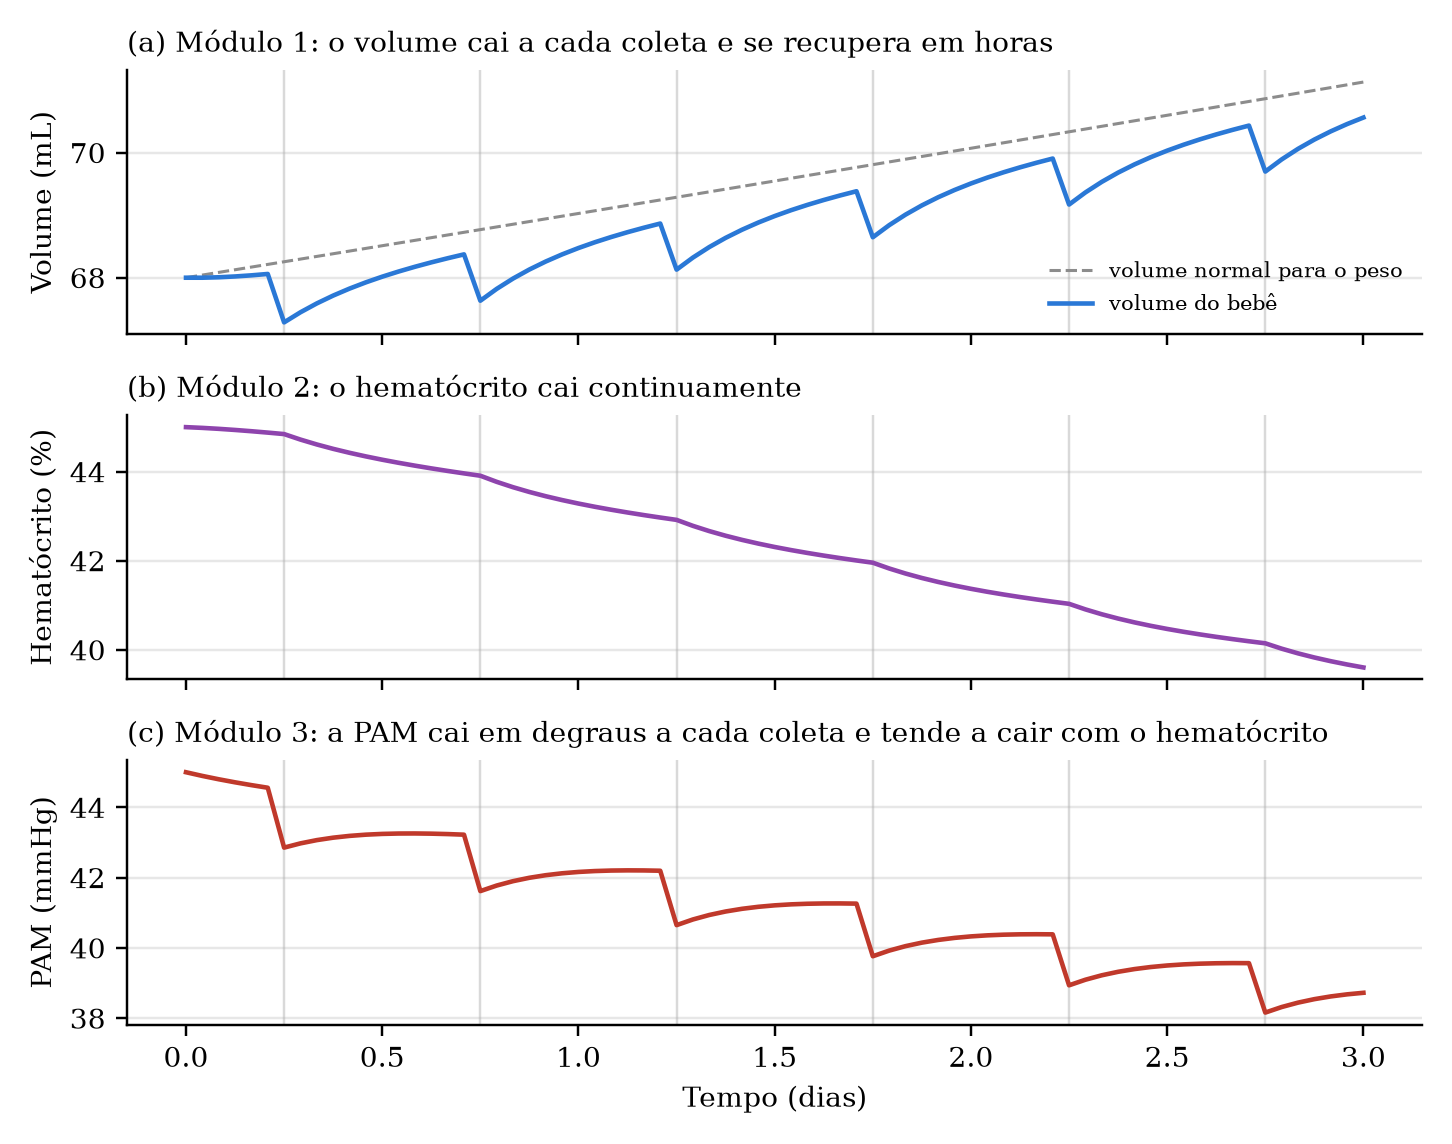
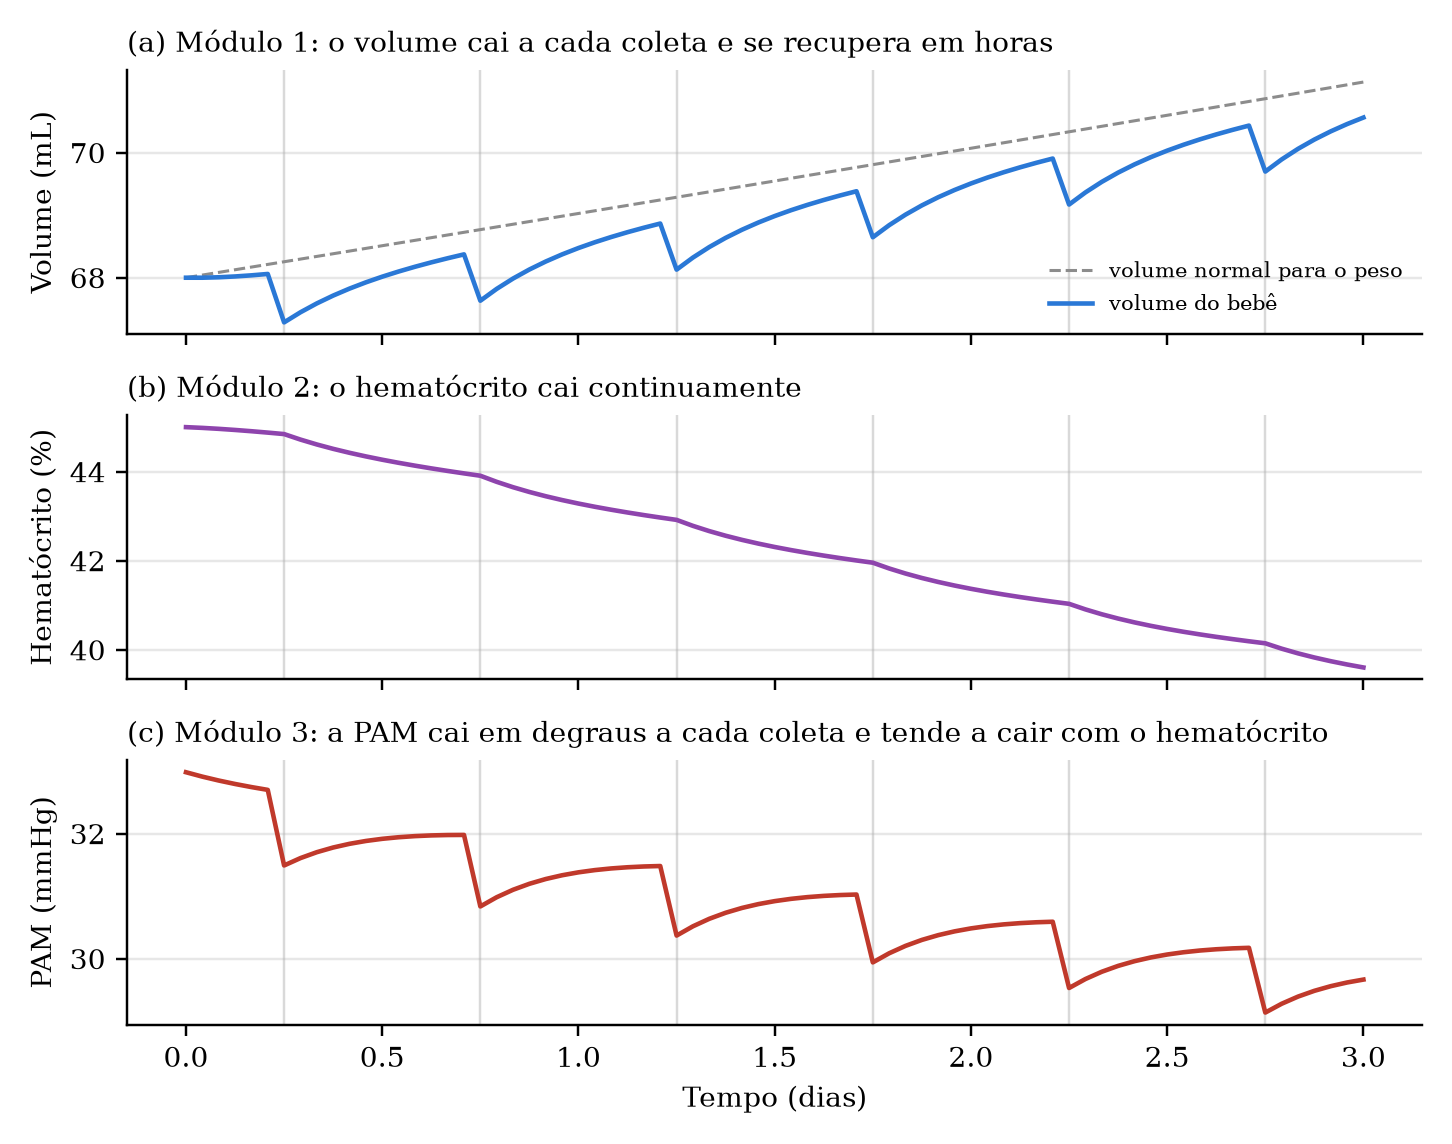
Ancora PAM, viscosidade e reposicao de volume na literatura
Tres parametros do relatorio parcial revistos contra as fontes citadas.

PAM basal 45 -> 33 mmHg. Vesoulis et al. (2016) mede ~33 mmHg ao nascer em
prematuros <28 semanas, por cateter umbilical, 11.9 milhoes de pontos. Os
45 mmHg eram saida dos parametros NEONATO, nao um valor da literatura --
o relatorio os apresentava como "compativeis com Vesoulis". Calibrado por
R, o unico dos tres parametros que se pode mexer sem estragar o resto:
mexer em SV derrubaria o debito cardiaco para 143 mL/kg/min, fora da faixa
neonatal de 200-230, e levaria a DO2 junto.

Viscosidade exponencial -> linear. A forma mu = mu_plasma.exp(K.Hct) so foi
confirmada em recem-nascidos ACIMA de Hct 42% (Pediatrics 1984, 93
amostras). O modelo percorre 45% -> 30%, ou seja, quase toda a simulacao
acontece fora da faixa validada. Na faixa de interesse a relacao e'
praticamente linear: r = 0.877 entre 29% e 63% num estudo em prematuros.
A forma linear preve queda 11% menor de viscosidade a Hct 0.30.
MODELO_VISCOSIDADE alterna entre as duas para comparacao.

TAU_V dividido em dois. Um unico tau de 6 h repunha volume apos a coleta E
drenava o excesso apos a transfusao -- mecanismos diferentes, sem razao
para serem iguais. Agora TAU_V = 6 h (refil transcapilar) e TAU_EXCRECAO =
24 h (excrecao renal, lenta no prematuro). O excesso pos-transfusao passa a
levar ~4 dias em vez de 1, e a sobrecarga de volume fica visivel, como e'
na clinica. TAU_EXCRECAO = TAU_V devolve o comportamento antigo.
[…]

diff --git a/simuladores/parametros.py b/simuladores/parametros.py
@@ -16,7 +16,12 @@ Unidades:
 # SV [mL], C [mL/mmHg], R [mmHg.s/mL], Pv [mmHg], HR [bpm]
 ADULTO = dict(nome="Adulto", HR=70.0, SV=70.0, C=1.20, R=1.0, Pv=5.0,
               cor="#2a78d6")
-NEONATO = dict(nome="Neonato", HR=140.0, SV=5.0, C=0.13, R=3.6, Pv=3.0,
+# R calibrado para PAM basal de ~33 mmHg, o valor normativo ao nascer em
+# prematuros <28 semanas (Vesoulis et al., 2016: 25.7 +- 1.5 sem, 865 +- 201 g,
+# 11.9 milhoes de pontos por cateter umbilical). R e' o unico dos tres que se
+# pode mexer sem estragar o resto: mexer em SV derrubaria o debito cardiaco
+# para 143 mL/kg/min, fora da faixa neonatal de 200-230, e com ele a DO2.
+NEONATO = dict(nome="Neonato", HR=140.0, SV=5.0, C=0.13, R=2.57, Pv=3.0,
                cor="#eb6834")
 PACIENTES = [ADULTO, NEONATO]
 
@@ -50,7 +55,19 @@ GANHO_PROD      = 2.00        # -       resposta lenta a (HCT0 - Hct)      TODO
 PROD_MAX        = 1.20        # -       teto da producao
 
 # ------------------------------------------------ volume
-TAU_V = 6.0                   # h       volume volta para V_ref; hemacias nao
+# Duas constantes, nao uma. O volume volta para V_ref por caminhos diferentes
+# conforme esteja abaixo ou acima dele, e nao ha razao para serem iguais:
+#
+#   TAU_V       V < V_ref, depois de uma coleta. Refil transcapilar, rapido.
+#   TAU_EXCRECAO  V > V_ref, depois de uma transfusao. Excrecao renal, lenta,
+#                 e mais lenta ainda no prematuro, de funcao renal imatura.
+#                 E' por isso que sobrecarga de volume e' risco real da
+#                 transfusao -- com um tau unico de 6 h, esse risco sumia em
+#                 24 h no modelo.
+#
+# Com TAU_EXCRECAO = TAU_V o comportamento volta a ser o de antes.      TODO
+TAU_V        = 6.0            # h       reposicao apos coleta
+TAU_EXCRECAO = 24.0           # h       excrecao do excesso apos transfusao
 
 # ------------------------------------------------ coletas
 VOL_COLETA        = 0.80      # mL      coleta de rotina                TODO
@@ -129,7 +146,20 @@ FU         = 0.70             # -       Vu = FU * V_ref (volume nao estressado)
 SV_REL_MAX = 1.20             # -       teto de SV/SV0
 
 # ------------------------------------------------ 5.2 viscosidade (Poiseuille)
-K_MU = 2.5                    # -       mu = mu_plasma * exp(K_MU * Hct)  TODO
+# A forma exponencial mu = mu_plasma.exp(K_MU.Hct) so foi confirmada em
+# recem-nascidos ACIMA de Hct 42% (Pediatrics, 1984, 93 amostras). O modelo
+# percorre 45% -> 30%, ou seja, quase toda a simulacao acontece abaixo dessa
+# fronteira. Na faixa de interesse a relacao e' praticamente linear: num
+# estudo em prematuros a viscosidade acompanhou o Hct com r = 0.877 entre
+# 29% e 63%.
+#
+# Usamos entao a forma linear  mu(Hct) = mu_plasma + (mu_ref - mu_plasma).Hct/HCT0,
+# parametrizada pela fracao do plasma na viscosidade do sangue de referencia:
+#   MU_PLASMA_REL = mu_plasma / mu_sangue(HCT0)
+# com plasma neonatal ~1.18 cP (adulto 1.36) e sangue a Hct 45% ~4.2 cP. TODO
+MODELO_VISCOSIDADE = "linear"  # "linear" (padrao) ou "exponencial"
+MU_PLASMA_REL = 0.28          # -       mu_plasma / mu_sangue(HCT0)      TODO
+K_MU = 2.5                    # -       so usado se MODELO_VISCOSIDADE = exponencial
 
 # ------------------------------------------------ 5.3 barorreflexo
 # g_r  -> vasoconstricao (reduz o raio)

diff --git a/simuladores/fisiologia.py b/simuladores/fisiologia.py
@@ -72,12 +72,27 @@ def sv_de_volume(V, V_ref, SV0):
 # ------------------------------------------------- 5.2 Hct -> viscosidade
 
 def viscosidade_relativa(Hct, Hct0=P.HCT0):
-    """mu(Hct)/mu(Hct0) com mu = mu_plasma.exp(K_MU.Hct).
+    """mu(Hct) / mu(Hct0), adimensional.
 
-    R e' linear em mu, mas NAO em Hct: a relacao viscosidade x hematocrito e'
-    exponencial no modelo e nao linear na realidade.
+    Duas formas, escolhidas por P.MODELO_VISCOSIDADE:
+
+      "linear"       mu = mu_plasma + (mu_ref - mu_plasma) . Hct/Hct0
+                     E' o padrao. Na faixa que o modelo percorre (45% -> 30%)
+                     a literatura neonatal mostra relacao praticamente linear
+                     com o hematocrito (r = 0.877 em prematuros, 29-63%).
+
+      "exponencial"  mu = mu_plasma . exp(K_MU . Hct)
+                     Forma classica, confirmada em recem-nascidos so ACIMA de
+                     Hct 42%. Mantida para comparacao e analise de
+                     sensibilidade.
+
+    R e' linear em mu; o que nao e' linear e' a dependencia de R no RAIO,
+    que entra como 1/r^4 em `hemodinamica`.
     """
-    return float(np.exp(P.K_MU * (Hct - Hct0)))
+    if P.MODELO_VISCOSIDADE == "exponencial":
+        return float(np.exp(P.K_MU * (Hct - Hct0)))
+    f = P.MU_PLASMA_REL
+    return float(f + (1.0 - f) * Hct / Hct0)
 
 
 # ------------------------------------------------- 5.3 barorreflexo

diff --git a/simuladores/02_balanco_volume_hemacias.py b/simuladores/02_balanco_volume_hemacias.py
@@ -134,7 +134,10 @@ def simular(agenda, dias=P.DIAS, dt=P.DT_H, transfundir=True,
             break
 
         # --- avanco de dt horas
-        rep = dt * (V_ref - V) / P.TAU_V          # reposicao: so plasma, dilui
+        # reposicao: so plasma, dilui. Abaixo de V_ref e' refil transcapilar
+        # (rapido); acima, excrecao renal do excesso de uma transfusao (lenta)
+        tau = P.TAU_V if V < V_ref else P.TAU_EXCRECAO
+        rep = dt * (V_ref - V) / tau
         V += rep
         acc["reposto"] += rep
         prod = producao_hemacias(M / V, peso0) * dt / 24.0

diff --git a/simuladores/proximos_passos/06_recomendacao.py b/simuladores/proximos_passos/06_recomendacao.py
@@ -49,7 +49,7 @@ def projetar(estado, horas, dt=P.DT_H, peso0=P.PESO0):
     t, V, M = estado["t_h"], estado["V"], estado["M"]
     peso, V_ref = estado["peso"], estado["V_ref"]
     for _ in range(int(round(horas / dt))):
-        V += dt * (V_ref - V) / P.TAU_V
+        V += dt * (V_ref - V) / (P.TAU_V if V < V_ref else P.TAU_EXCRECAO)
         M += (bal.producao_hemacias(M / V, peso0) - M / P.VIDA_HEMACIA) * dt / 24.0
         t += dt
         peso = fis.peso_no_dia(t / 24.0, peso0)

diff --git a/README.md b/README.md
@@ -208,6 +208,19 @@ projeção, já que o bebê cresce durante ela.
 > peso entra como proxy de maturidade. Valores centrados em `HCT_LIMIAR` no
 > peso de referência, para seguirem comparáveis aos dos arquivos numerados.
 
+### Ajustes do modelo apos conferencia com a literatura
+
+Tres parametros do relatorio parcial foram revistos contra as fontes:
+
+| | Antes | Agora | Por que |
+|---|---|---|---|
+| PAM basal | 45 mmHg | **33 mmHg** | Vesoulis et al. (2016) mede ~33 mmHg ao nascer em <28 semanas. Calibrado por `R` do `NEONATO`, o unico que preserva o debito cardiaco em 200 mL/kg/min e, com ele, a DO2 |
+| Viscosidade | `exp(K·Hct)` | **linear** | A forma exponencial so foi confirmada em recem-nascidos **acima** de Hct 42%; o modelo percorre 45% → 30%. Em prematuros a relacao e praticamente linear nessa faixa (r = 0,877 entre 29% e 63%) |
+| Reposicao de volume | τ = 6 h nos dois sentidos | **τ = 6 h / 24 h** | O mesmo τ repunha volume apos a coleta **e** drenava o excesso apos a transfusao. Sao mecanismos diferentes: refil transcapilar e excrecao renal, esta lenta no prematuro |
+
+`MODELO_VISCOSIDADE` alterna entre `"linear"` e `"exponencial"` para comparar
+as duas formas; `TAU_EXCRECAO = TAU_V` devolve o comportamento antigo.
+
 ### Onde os dados ficam
 
 `armazem.py` tem duas implementações com a mesma interface, e `escolher()`
